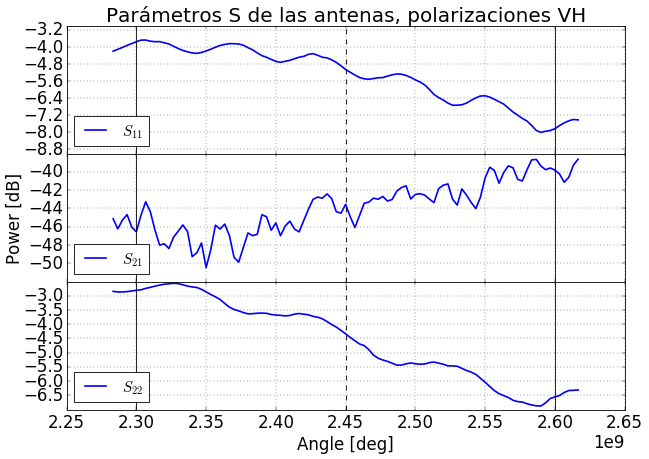
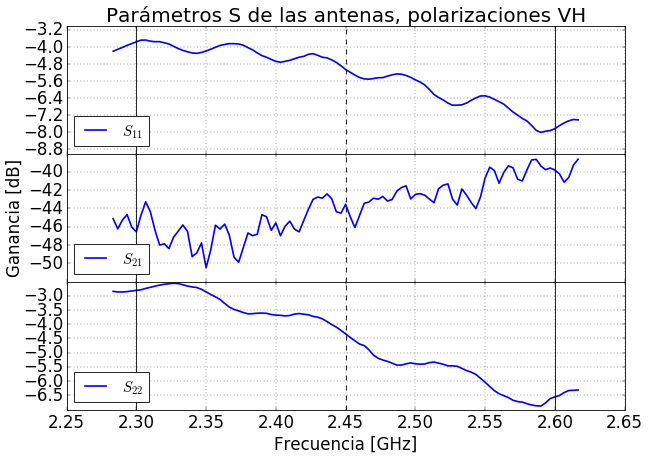
changed every image's title  to spanish and some words too

Changed region(s): [[0.4006, 0.9455, 0.6471, 1.0], [0.0, 0.3355, 0.0308, 0.61], [0.8937, 0.9455, 0.9861, 0.976]]

diff --git a/written/thesis/Chapter5/chapter5.tex b/written/thesis/Chapter5/chapter5.tex
@@ -43,7 +43,7 @@ En esta sección se estudia la dependencia de la medición de un componente de l
   \cmidrule{2-9}
    & \multicolumn{2}{c}{30,760} & \multicolumn{2}{c}{35000} & \multicolumn{2}{c}{37760,1695} & \multicolumn{2}{c}{40000} \tabularnewline
   \cmidrule(r){2-3} \cmidrule(lr){4-5} \cmidrule(lr){6-7} \cmidrule(l){8-9}
-   & {Gain} & {Phase} & {Gain} & {Phase} & {Gain} & {Phase} & {Gain} & {Phase} \tabularnewline
+   & {Ganancia} & {Fase} & {Ganancia} & {Fase} & {Ganancia} & {Fase} & {Ganancia} & {Fase} \tabularnewline
    & [$\si{\deci\bel}$] & [$\si{\degree}$] & [$\si{\deci\bel}$] & [$\si{\degree}$] & [$\si{\deci\bel}$] & [$\si{\degree}$] & [$\si{\deci\bel}$] & [$\si{\degree}$] \tabularnewline
   \midrule
   
@@ -93,7 +93,7 @@ En esta sección se introducen incertidumbres en la medición de la distancia bu
   \cmidrule{2-9}
    & \multicolumn{2}{c}{30760} & \multicolumn{2}{c}{35000} & \multicolumn{2}{c}{37760,1695} & \multicolumn{2}{c}{40000} \tabularnewline
   \cmidrule(r){2-3} \cmidrule(lr){4-5} \cmidrule(lr){6-7} \cmidrule(l){8-9}
-   & {$\Delta Gain$} & {$\Delta Phase$} & {$\Delta Gain$} & {$\Delta Phase$} & {$\Delta Gain$} & {$\Delta Phase$} & {$\Delta Gain$} & {$\Delta Phase$} \tabularnewline
+   & {$\Delta Ganancia$} & {$\Delta Fase$} & {$\Delta Ganancia$} & {$\Delta Fase$} & {$\Delta Ganancia$} & {$\Delta Fase$} & {$\Delta Ganancia$} & {$\Delta Fase$} \tabularnewline
    & [$\si{\deci\bel}$] & [$\si{\degree}$] & [$\si{\deci\bel}$] & [$\si{\degree}$] & [$\si{\deci\bel}$] & [$\si{\degree}$] & [$\si{\deci\bel}$] & [$\si{\degree}$] \tabularnewline
   \midrule
   
@@ -147,7 +147,7 @@ La tabla \ref{tab:radarMeasurementResults} resume los resultados obtenidos. El e
   \label{tab:radarMeasurementResults}
   \begin{tabular}{c c | *{2}{S[table-auto-round, table-format=1.3]} *{2}{S[table-auto-round, table-format=-2.2]} S[table-auto-round, table-format=-3] S[table-auto-round, table-format=2]}
   \toprule
-  \textbf{Rango} & \textbf{Pol} & \textbf{Rango} & \textbf{$\Delta$Rango}  & \textbf{Gain} & \textbf{$\Delta$Gain} & \textbf{Phase} & \textbf{$\Delta$Phase} \tabularnewline
+  \textbf{Rango} & \textbf{Pol} & \textbf{Rango} & \textbf{$\Delta$Rango}  & \textbf{Ganancia} & \textbf{$\Delta$Ganancia} & \textbf{Fase} & \textbf{$\Delta$Fase} \tabularnewline
 
   [$\si{\meter}$] & & [$\si{\meter}$] & [$\si{\meter}$] & [$\si{\dB}$] & [$\si{\dB}$] & [$\si{\degree}$] & [$\si{\degree}$] \tabularnewline
   \midrule
@@ -221,7 +221,7 @@ En esta sección se estudia la dependencia de la medición de los parámetros S 
   \cmidrule{2-7}
    & \multicolumn{2}{c}{2,201} & \multicolumn{2}{c}{2,229} & \multicolumn{2}{c}{2,255} \tabularnewline
   \cmidrule(r){2-3} \cmidrule(lr){4-5} \cmidrule(l){6-7}
-   & {Gain} & {Phase} & {Gain} & {Phase} & {Gain} & {Phase} \tabularnewline
+   & {Ganancia} & {Fase} & {Ganancia} & {Fase} & {Ganancia} & {Fase} \tabularnewline
    & [$\si{\dB}$] & [$\si{\degree}$] & [$\si{\dB}$] & [$\si{\degree}$] & [$\si{\dB}$] & [$\si{\degree}$] \tabularnewline
   \midrule
   
@@ -266,7 +266,7 @@ La tabla \ref{tab:radarDistIncert} está dividida en dos partes. A la izquierda 
   \label{tab:radarDistIncert}
   \begin{tabular}{c c | S[table-auto-round, table-format=1.1] S[table-auto-round, table-format=2] || *{2}{S[table-auto-round, table-format=-2.2]} S[table-auto-round, table-format=1.1] S[table-auto-round, table-format=3]}
   \toprule
-  \textbf{Rango} & \textbf{Pol} & \textbf{$\Delta$Gain} & \textbf{$\Delta$Phase} & \textbf{Rango} & \textbf{$\Delta$Rango}  & \textbf{$\Delta$Gain} & \textbf{$\Delta$Phase} \tabularnewline
+  \textbf{Rango} & \textbf{Pol} & \textbf{$\Delta$Ganancia} & \textbf{$\Delta$Fase} & \textbf{Rango} & \textbf{$\Delta$Rango}  & \textbf{$\Delta$Ganancia} & \textbf{$\Delta$Fase} \tabularnewline
 
   [$\si{\meter}$] & & [$\si{\dB}$] & [$\si{\degree}$] & [$\si{\meter}$] & [$\si{\meter}$] & [$\si{\dB}$] & [$\si{\degree}$] \tabularnewline
   \midrule
@@ -313,7 +313,7 @@ La tabla \ref{tab:cornerMeasurementResults} resume los resultados obtenidos. El 
   \label{tab:cornerMeasurementResults}
   \begin{tabular}{c c | S[table-auto-round, table-format=1.2] S[table-auto-round, table-format=1.2] S[table-auto-round, table-format=-2.2] S[table-auto-round, table-format=1.2] S[table-auto-round, table-format=-3] S[table-auto-round, table-format=2]}
   \toprule
-  \textbf{Rango} & \textbf{Pol} & \textbf{Rango} & \textbf{$\Delta$Rango}  & \textbf{Gain} & \textbf{$\Delta$Gain} & \textbf{Phase} & \textbf{$\Delta$Phase} \tabularnewline
+  \textbf{Rango} & \textbf{Pol} & \textbf{Rango} & \textbf{$\Delta$Rango}  & \textbf{Ganancia} & \textbf{$\Delta$Ganancia} & \textbf{Fase} & \textbf{$\Delta$Fase} \tabularnewline
 
   [$\si{\meter}$] & & [$\si{\meter}$] & [$\si{\meter}$] & [$\si{\dB}$] & [$\si{\dB}$] & [$\si{\degree}$] & [$\si{\degree}$] \tabularnewline
   \midrule

diff --git a/written/thesis/Chapter2/chapter2.tex b/written/thesis/Chapter2/chapter2.tex
@@ -11,7 +11,7 @@
     \graphicspath{{Chapter2/Figs/Vector/}{Chapter2/Figs/}}
 \fi
 
-En este capítulo se presentan los requerimientos y la teoría de base necesaria para el desarrollo de este trabajo de tesis. El mismo se encuentra dividido en siete secciones. La primer sección trata sobre los requerimientos necesarios que se deben cumplir para obtener el objetivo. En la segunda se discuten las diferencias entre los principales tipos de radares, continuos y pulsados. Luego se presenta la problemática de ambigüedades en rango para ambos grupos. A continuación se resumen las características de cada geometría de antena, en particular se detallan monopolos y dipolos. A su vez se introduce el concepto de polarización asociado a la matriz de polarización cuyos componentes se desean conocer. En la quinta se introduce el concepto de parámetros S. En la sexta se detalla el procesamiento que se le debe aplicar a la señal recibida para un radar FMCW. Por último, se presentan las propiedades de un corner reflector dado que se utiliza como blanco de medición.
+En este capítulo se presentan los requerimientos y la teoría de base necesaria para el desarrollo de este trabajo de tesis. El mismo se encuentra dividido en siete secciones. La primer sección trata sobre los requerimientos necesarios que se deben cumplir para obtener el objetivo. En la segunda se discuten las diferencias entre los principales tipos de radares, continuos y pulsados. Luego se presenta la problemática de ambigüedades en rango para ambos grupos. A continuación se resumen las características de cada geometría de antena, en particular se detallan monopolos y dipolos. A su vez se introduce el concepto de polarización asociado a la matriz de polarización cuyos componentes se desean conocer. En la quinta se introduce el concepto de parámetros S. En la sexta se detalla el procesamiento que se le debe aplicar a la señal recibida para un radar FMCW. Por último, se presentan las propiedades de un reflector de esquina (del inglés \textit{corner reflector}) dado que se utiliza como blanco de medición.
 
 \section{Requerimientos}
 
